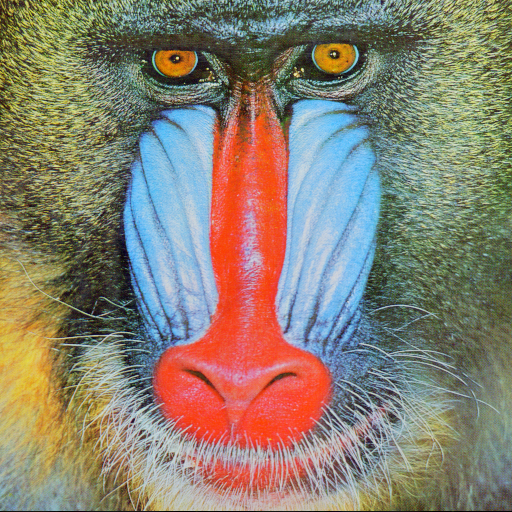
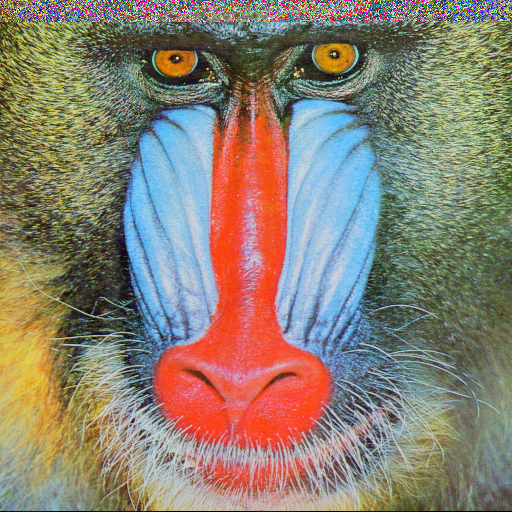
Fixed pixel positioning on replace

Changed region(s): [[0.0, 0.0, 1.0, 0.0625]]

diff --git a/esteganography/imageManipulation.py b/esteganography/imageManipulation.py
@@ -1,22 +1,26 @@
 def addTextToImage(img, bits, txt, debug):
 
-    # 0 -> R
-    # 1 -> G
-    # 2 -> B
-    channel = bits % 3
+    replaceIndex = 7 - bits
     counter = 0
+
+    if debug:
+        print('----------------')
+        print('Applying changes on {} bit'.format(replaceIndex))
 
     for x in range(0, img.shape[0]):
         for y in range(0, img.shape[1]):
+            for z in range(0, img.shape[2]):
 
-            if counter >= len(txt): return img
+                if counter >= len(txt): return img
 
-            pixel = img[x][y][channel]
+                pixel = img[x][y][z]
 
-            binary = bin(pixel)[2:]
-            binary = binary[:-1] + txt[counter]
+                binary = '{0:08b}'.format(pixel)
+                replacedBinary = binary[:replaceIndex] + txt[counter] + binary[replaceIndex + 1:]
 
-            newPixel = int(binary, 2)
-            img[x][y][channel] = newPixel
+                newPixel = int(replacedBinary, 2)
+                img[x][y][z] = newPixel
 
-            counter += 1
+                if debug: print('{} + {} ->\t{} -> {}'.format(pixel, txt[counter], binary, replacedBinary))
+
+                counter += 1
